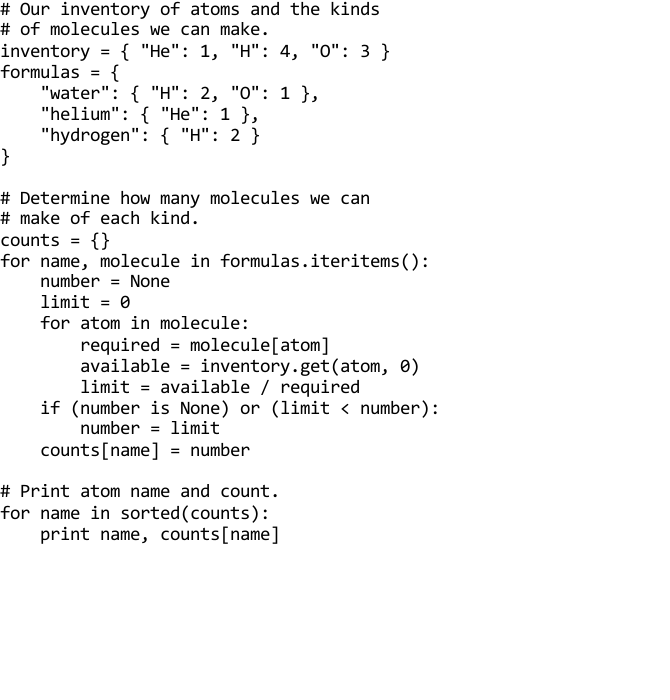
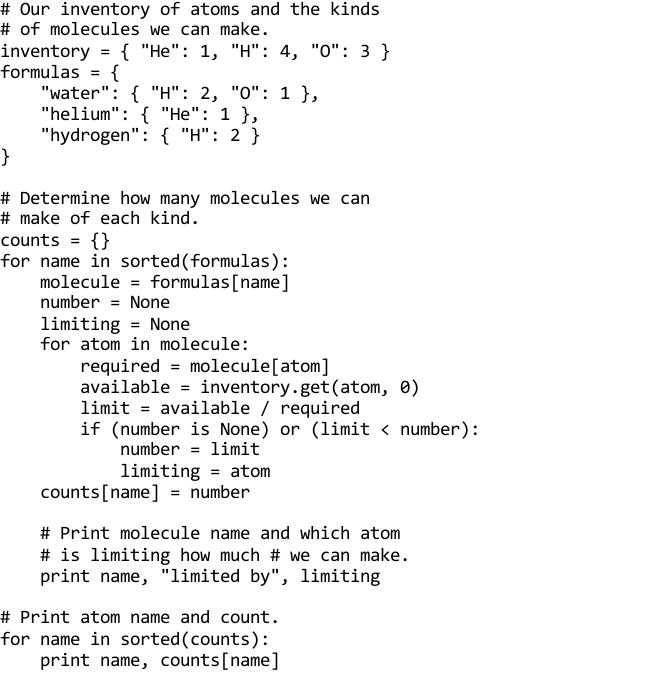
Updated nanotech programs

Changed region(s): [[0.0, 0.36, 0.7164, 0.84], [0.0, 0.87, 0.4179, 0.96]]

diff --git a/programs/nanotech_comments.py b/programs/nanotech_comments.py
@@ -10,16 +10,22 @@ formulas = {
 # Determine how many molecules we can
 # make of each kind.
 counts = {}
-for name, molecule in formulas.iteritems():
+for name in sorted(formulas):
+    molecule = formulas[name]
     number = None
-    limit = 0
+    limiting = None
     for atom in molecule:
         required = molecule[atom]
         available = inventory.get(atom, 0)
         limit = available / required
-    if (number is None) or (limit < number):
-        number = limit
+        if (number is None) or (limit < number):
+            number = limit
+            limiting = atom
     counts[name] = number
+
+    # Print molecule name and which atom
+    # is limiting how much # we can make.
+    print name, "limited by", limiting
 
 # Print atom name and count.
 for name in sorted(counts):

diff --git a/programs/nanotech_nocomments.py b/programs/nanotech_nocomments.py
@@ -6,16 +6,19 @@ formulas = {
 }
 
 counts = {}
-for name, molecule in formulas.iteritems():
+for name in sorted(formulas):
+    molecule = formulas[name]
     number = None
-    limit = 0
+    limiting = None
     for atom in molecule:
         required = molecule[atom]
         available = inventory.get(atom, 0)
         limit = available / required
-    if (number is None) or (limit < number):
-        number = limit
+        if (number is None) or (limit < number):
+            number = limit
+            limiting = atom
     counts[name] = number
+    print name, "limited by", limiting
 
 for name in sorted(counts):
     print name, counts[name]
